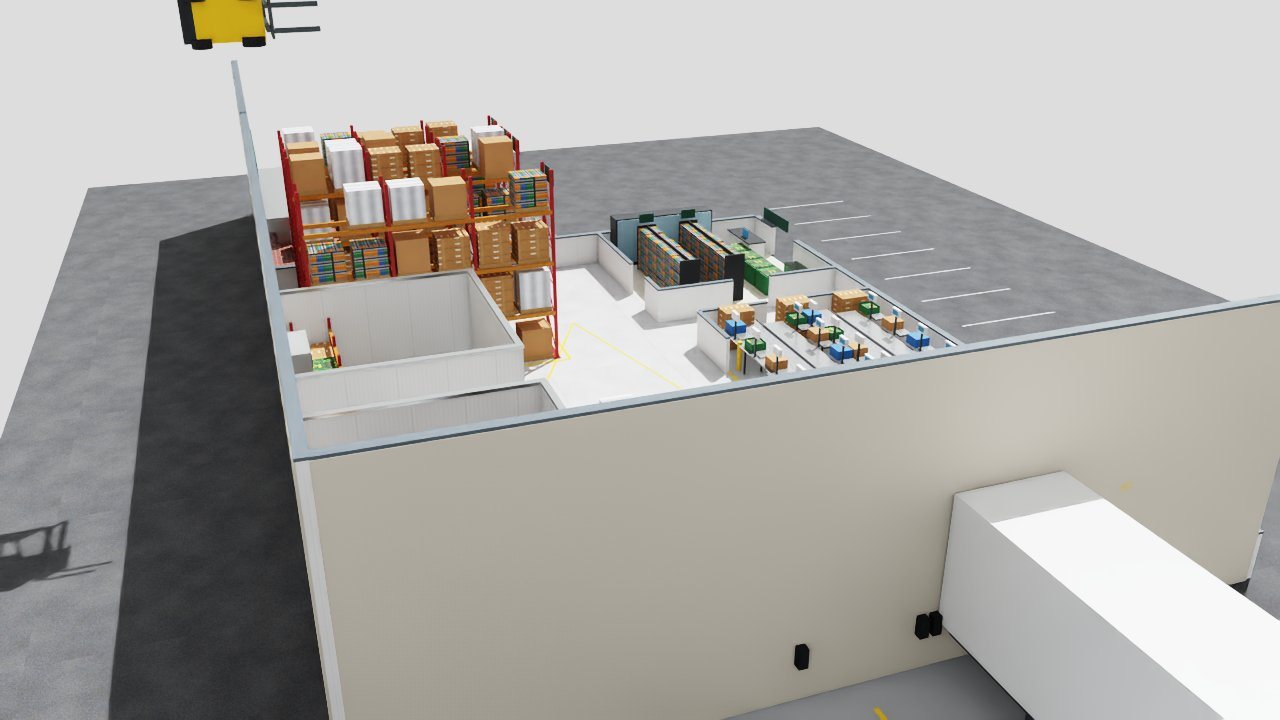
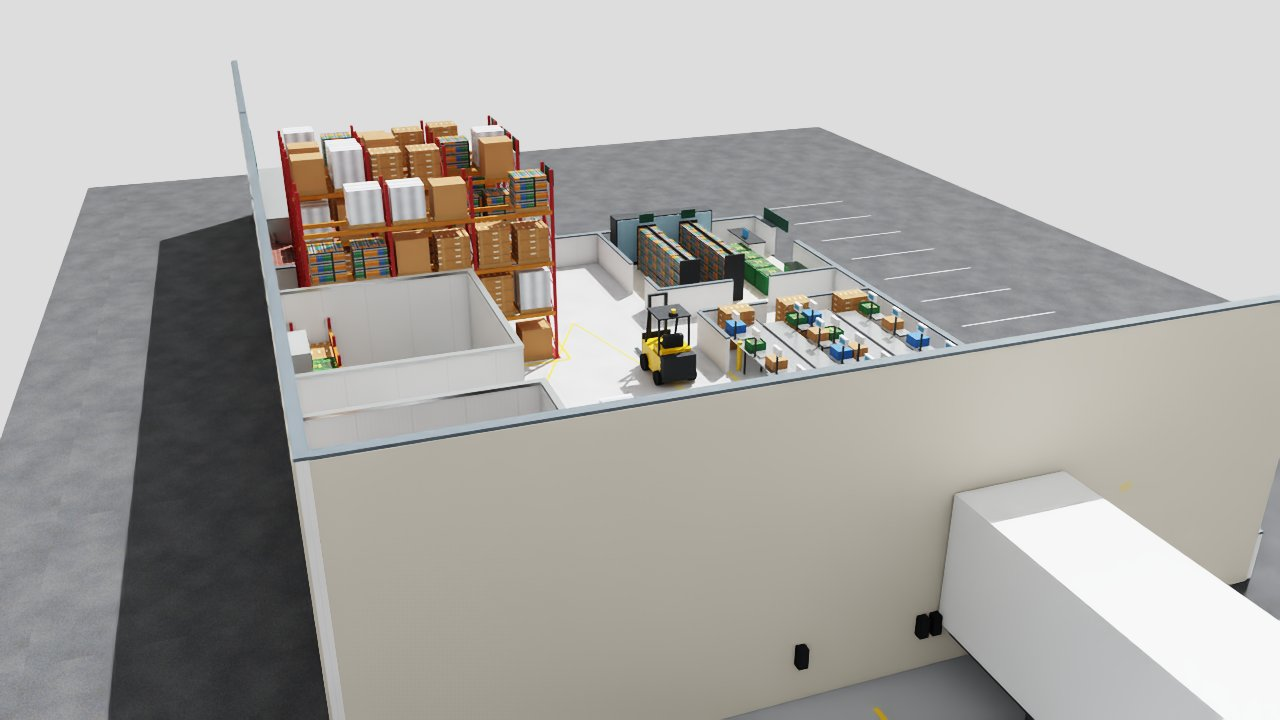
Record Omniverse run 7: forklift clips rendered on g5.xlarge
No us-east-2 zone had g6.xlarge capacity, so run 7 used g5.xlarge (A10G)
with the same setup and rendered all three clips with the forklift
transform fixed. Adds two run 7 frames to the wiki, the capacity
fallback and transform formula to the pitfalls, and moves GPU totals to
seven runs, about 94 instance-minutes, about $1.34 (build about $1.54).

Claude-Session: https://claude.ai/code/session_01WgLBft5thUa6djgUa4FqA3

Changed region(s): [[0.4688, 0.3972, 0.5938, 0.55], [0.125, 0.0, 0.25, 0.0611], [0.0, 0.7028, 0.0938, 0.825]]

diff --git a/public/wiki/omniverse.html b/public/wiki/omniverse.html
@@ -26,13 +26,15 @@
 <p>What happened when we tried to render the twin in NVIDIA Omniverse on a rented AWS GPU, run by run. It covers what failed, why it failed and what fixed it, so the next person can skip the dead ends. Scripts: <a href="https://github.com/pikulsomesh/foodbank-spatial-twin/blob/main/scripts/gpu_trial.py"><code>scripts/gpu_trial.py</code></a> (launch, render, upload, self-terminate), <a href="https://github.com/pikulsomesh/foodbank-spatial-twin/blob/main/scripts/omniverse_render_shots.py"><code>scripts/omniverse_render_shots.py</code></a> (stills) and <a href="https://github.com/pikulsomesh/foodbank-spatial-twin/blob/main/scripts/omniverse_render_clips.py"><code>scripts/omniverse_render_clips.py</code></a> (4 s moving clips). Full logs are in <a href="https://github.com/pikulsomesh/foodbank-spatial-twin/tree/main/docs/renders/omniverse-trial/"><code>docs/renders/omniverse-trial/</code></a>.</p>
 <div class="note warn"><p>Costs are worked out from the public on-demand list price ($0.8048 an hour for g6.xlarge in us-east-2) on one individual AWS account. They are directional; enterprise accounts may see different prices, quotas and policies.</p></div>
 <h2>Short version</h2>
-<p><strong>Result:</strong> Omniverse (Kit 107.3 in Isaac Sim 5.1) rendered the designed Blender facility in RTX on a g6.xlarge on run 6. The Gaussian-splat captures loaded but rendered blank grey, so Omniverse rendering of the splats is <strong>not</strong> shown. Total GPU time across six runs was about 72 instance-minutes, about $0.97 at list price.</p>
-<figure class="photo"><img src="img/omniverse_orbit.jpg" alt="Omniverse RTX frame of the designed facility, run 6" loading="lazy"><figcaption>First frame of the run 6 orbit: the designed facility rendered by Omniverse RTX (Isaac Sim 5.1) on an AWS g6.xlarge. The forklift floating at top left is the parent-transform bug described in pitfall 12, since fixed.</figcaption></figure>
+<p><strong>Result:</strong> Omniverse (Kit 107.3 in Isaac Sim 5.1) rendered the designed Blender facility in RTX on run 6, and on run 7 rendered three 4 s clips with the forklift driving through the building. The Gaussian-splat captures loaded but rendered blank grey, so Omniverse rendering of the splats is <strong>not</strong> shown. Total GPU time across seven runs was about 94 instance-minutes, about $1.34 at list price.</p>
+<div class="two"><figure class="photo"><img src="img/omniverse_orbit.jpg" alt="Omniverse RTX frame of the designed facility, run 7" loading="lazy"><figcaption>Omniverse RTX (Isaac Sim 5.1) on an AWS GPU, run 7: orbit of the designed facility with the forklift on the floor.</figcaption></figure>
+<figure class="photo"><img src="img/omniverse_forklift.jpg" alt="Omniverse RTX frame following the forklift, run 7" loading="lazy"><figcaption>Run 7: the camera follows the forklift through the racking aisle. Designed facility, simulated motion.</figcaption></figure></div>
 <ul>
 <li><strong>Use the driver branch Isaac Sim is validated on.</strong> Isaac Sim 5.1 (Kit 107.3) crashed a second after start on the AWS Deep Learning AMI's 595 driver, even with an empty scene. It started cleanly on plain Ubuntu 22.04 with <code>nvidia-driver-580-server</code> (580.178.04).</li>
 <li><strong>Test with a cube before your scene.</strong> A one-cube stage separates "the GPU stack is broken" from "my USD file is broken". It took four runs to learn that the twin files were never the problem.</li>
 <li><strong>Budget about 12 minutes before the first frame.</strong> On a cold instance that is about 1 min to boot, about 4.5 min to pull the Isaac Sim image, and about 5 min for Kit to build its shader cache on first start. Render everything in one session.</li>
 <li><strong>New AWS accounts have 0 GPU quota.</strong> Request "Running On-Demand G and VT instances" vCPUs early (4 is enough for one g6.xlarge). Ours was escalated, approved after about an hour, and took another 30 minutes or so to apply.</li>
+<li><strong>Have a fallback instance type.</strong> On run 7 no us-east-2 zone had g6.xlarge capacity; g5.xlarge (NVIDIA A10G, $1.006 an hour) ran the same setup unchanged.</li>
 <li><strong>Make the instance unable to outlive the job.</strong> No SSH key, no IAM role, inputs and outputs through presigned S3 URLs, <code>shutdown -h +N</code> as a hard cap, and shutdown behaviour set to terminate.</li>
 </ul>
 <h2>The setup</h2>
@@ -119,9 +121,16 @@
 <td>Forklift, facility orbit and aisle clips (4 s, 96 frames at 1280×720, 8 subframes)</td>
 <td><span class="tag live">Rendered</span> <strong>Frames rendered.</strong> The facility rendered in RTX: 16.7 s for one clip and 45.7 s for the wide orbit, and the second container start was warm. The splat file (<code>site.usdz</code>) loaded but rendered blank grey. The forklift floated above the building because its pose ignored the parent's Z-up to Y-up rotation (fixed in the script). Only the orbit clip is usable.</td>
 </tr>
+<tr>
+<td>7</td>
+<td>after 23:17, about 22 min</td>
+<td>same as run 6, on <strong>g5.xlarge</strong> (A10G) because no us-east-2 zone had g6.xlarge capacity</td>
+<td>Fixed forklift transform; forklift chase, facility orbit, aisle with forklift</td>
+<td><span class="tag live">Rendered</span> <strong>All three clips rendered.</strong> Warm render times for 96 frames at 8 subframes: forklift chase 18.6 s, facility orbit 47.7 s, aisle 49.4 s. The rest of the ~22 min was driver and Docker install and the image pull.</td>
+</tr>
 </tbody>
 </table></div>
-<p>Running total through run 6: about 72 instance-minutes, about <strong>$0.97</strong>. Every instance terminated itself, and no volumes were left behind.</p>
+<p>Running total through run 7: about 94 instance-minutes, about <strong>$1.34</strong>. Every instance terminated itself, and no volumes were left behind.</p>
 <h2>Pitfalls and fixes</h2>
 <ol>
 <li><strong>Driver too new for Kit.</strong> The Deep Learning AMI shipped driver 595 in October 2026. Kit 107.3 crashes in the RTX scene database on that driver before it opens any stage. Start from plain Ubuntu and install the 580 server branch, or pin an AMI whose driver matches the Isaac Sim release notes.</li>
@@ -133,12 +142,13 @@
 <li><strong>Test the GPU stack before the scene.</strong> Render a one-cube stage first. If the cube crashes, nothing about your USD will help.</li>
 <li><strong>GPU quota starts at 0.</strong> Open the quota request on day one. Approval can mean an escalated support case, and the new limit takes about 30 minutes to apply after approval.</li>
 <li><strong>Splats rendered blank in Kit 107.3.</strong> OpenUSD 26.03 defines <code>ParticleField3DGaussianSplat</code> and NVIDIA documents particle-field rendering, but Isaac Sim 5.1 loaded the twin's splat file and drew a blank grey frame. Use a Kit release whose notes list the particle-field schema, or show meshes in Omniverse and splats in the browser (Spark) or our CPU splat renderer. Blender's USD importer doesn't read them either.</li>
-<li><strong>Animate in the right frame.</strong> The facility comes from Blender, so <code>/World/Facility</code> carries a Z-up to Y-up rotation. A prim under it, like the forklift rig, needs its world pose mapped through the parent's transform, or it ends up floating above the building.</li>
+<li><strong>Animate in the right frame.</strong> The facility comes from Blender, so <code>/World/Facility</code> carries a Z-up to Y-up rotation. A prim under it, like the forklift rig, needs <code>local = rest × world × parent⁻¹</code>, or it ends up floating above the building or lying on its side.</li>
+<li><strong>GPU capacity runs out.</strong> A zone can have no g6.xlarge capacity even with quota. <code>scripts/gpu_trial.py</code> now tries every zone, then falls back to g5.xlarge.</li>
 <li><strong>Strip presigned URLs from logs before you publish them.</strong> They carry the access key id and work until they expire.</li>
 <li><strong>Fargate has no GPUs.</strong> For regular use, run the same container as an ECS service or AWS Batch job on a GPU Auto Scaling group with a minimum of 0, so an instance exists only while a render runs.</li>
 </ol>
-<h2>A recipe that renders the facility (as of run 6)</h2>
-<pre><code class="language-bash"># EC2 user data on Ubuntu 22.04, g6.xlarge
+<h2>A recipe that renders the facility (as of run 7)</h2>
+<pre><code class="language-bash"># EC2 user data on Ubuntu 22.04, g6.xlarge (or g5.xlarge as a fallback)
 apt-get update &amp;&amp; apt-get install -y linux-headers-$(uname -r) docker.io ffmpeg curl
 apt-get install -y nvidia-driver-580-server nvidia-utils-580-server
 modprobe nvidia &amp;&amp; nvidia-smi                      # expect Driver Version: 580.x
@@ -180,13 +190,18 @@ docker run --rm --gpus all -e ACCEPT_EULA=Y -e PRIVACY_CONSENT=Y \
 <td>about $0.20</td>
 </tr>
 <tr>
-<td><strong>Total, six runs</strong></td>
-<td><strong>about 72</strong></td>
-<td><strong>about $0.97</strong></td>
+<td>Run 7 (g5.xlarge)</td>
+<td>about 22</td>
+<td>about $0.37</td>
+</tr>
+<tr>
+<td><strong>Total, seven runs</strong></td>
+<td><strong>about 94</strong></td>
+<td><strong>about $1.34</strong></td>
 </tr>
 </tbody>
 </table></div>
-<p>Six attempts, including the first working render, cost under a dollar of GPU time. The slow part was the GPU quota request, not the spend.</p>
+<p>Seven attempts, through to working forklift clips, cost about $1.34 of GPU time. The slow part was the GPU quota request, not the spend.</p>
 <footer class="page">Representative food bank inspired by the Central Texas Food Bank; not affiliated with or endorsed by it. Costs are directional. Source: <a href="https://github.com/pikulsomesh/foodbank-spatial-twin">github.com/pikulsomesh/foodbank-spatial-twin</a>.</footer>
 </article>
 </div>

diff --git a/public/wiki/index.html b/public/wiki/index.html
@@ -33,13 +33,13 @@
   <div class="tile"><div class="label">Calendar time</div><div class="value">7 days</div><div class="meta">2026-10-19 to 2026-10-25</div></div>
   <div class="tile"><div class="label">World-model credits</div><div class="value">$0.20</div><div class="meta">confirmed; at most $1.00</div></div>
   <div class="tile"><div class="label">AWS backend bill</div><div class="value">$0.00</div><div class="meta">free tier, October 2026</div></div>
-  <div class="tile"><div class="label">Omniverse GPU trials</div><div class="value">$0.97</div><div class="meta">72 instance-minutes, list price</div></div>
+  <div class="tile"><div class="label">Omniverse GPU trials</div><div class="value">$1.34</div><div class="meta">94 instance-minutes, list price</div></div>
   <div class="tile"><div class="label">CAD models used</div><div class="value">0</div><div class="meta">footage that already existed</div></div>
 </div>
 <h2>Why it matters</h2>
 <p>A digital twin usually starts with CAD drawings or a laser survey, then weeks of modelling before any data is connected. Here the building comes from footage that already existed. World models fill in metric depth, a script fills in the facility, and OpenUSD lets the same scene run in a browser, in Omniverse and in Blender. The cloud spend to capture and model a whole facility is in the tens of dollars (see <a href="cost.html">Cost</a>), so the real work moves to connecting data, which is where a twin earns its keep.</p>
 <h2>What is real today</h2>
-<div class="table-wrap"><table><thead><tr><th>Part</th><th>Status</th><th>Details</th></tr></thead><tbody><tr><td>World-model captures (3 zones)</td><td><span class="tag live">Ran</span></td><td>World Labs Marble 2, 200 credits. <a href='pipeline.html'>Pipeline</a></td></tr><tr><td>Photoreal splats trained from the video (4 zones)</td><td><span class="tag live">Ran</span></td><td>Local 3D Gaussian Splatting, 0 credits. <a href='pipeline.html#photoreal'>Pipeline</a></td></tr><tr><td>Blender facility model</td><td><span class="tag live">Ran</span></td><td><code>scripts/build_facility.py</code> writes GLB and USDZ. <a href='pipeline.html#blender'>Pipeline</a></td></tr><tr><td>AWS backend (S3, API Gateway, Lambda)</td><td><span class="tag live">Live</span></td><td>Deployed in us-east-2. <a href='https://f2ck9o1rx0.execute-api.us-east-2.amazonaws.com/telemetry'>/telemetry</a>, <a href='data.html'>Data on AWS</a></td></tr><tr><td>Browser twin on GitHub Pages</td><td><span class="tag live">Live</span></td><td>Reads the AWS API. <a href='../'>Open it</a></td></tr><tr><td>Omniverse on an AWS GPU (EC2 g6.xlarge)</td><td><span class="tag live">Rendered</span></td><td>Six runs on a real g6.xlarge, about $0.97. Run 6 rendered the designed facility in RTX; the splats rendered blank. <a href='omniverse.html'>Learnings</a></td></tr><tr><td>Real sensors on a food bank floor</td><td><span class="tag design">Design only</span></td><td>Designed and priced, not installed. <a href='cost.html'>Cost</a></td></tr></tbody></table></div>
+<div class="table-wrap"><table><thead><tr><th>Part</th><th>Status</th><th>Details</th></tr></thead><tbody><tr><td>World-model captures (3 zones)</td><td><span class="tag live">Ran</span></td><td>World Labs Marble 2, 200 credits. <a href='pipeline.html'>Pipeline</a></td></tr><tr><td>Photoreal splats trained from the video (4 zones)</td><td><span class="tag live">Ran</span></td><td>Local 3D Gaussian Splatting, 0 credits. <a href='pipeline.html#photoreal'>Pipeline</a></td></tr><tr><td>Blender facility model</td><td><span class="tag live">Ran</span></td><td><code>scripts/build_facility.py</code> writes GLB and USDZ. <a href='pipeline.html#blender'>Pipeline</a></td></tr><tr><td>AWS backend (S3, API Gateway, Lambda)</td><td><span class="tag live">Live</span></td><td>Deployed in us-east-2. <a href='https://f2ck9o1rx0.execute-api.us-east-2.amazonaws.com/telemetry'>/telemetry</a>, <a href='data.html'>Data on AWS</a></td></tr><tr><td>Browser twin on GitHub Pages</td><td><span class="tag live">Live</span></td><td>Reads the AWS API. <a href='../'>Open it</a></td></tr><tr><td>Omniverse on an AWS GPU (EC2 g6.xlarge)</td><td><span class="tag live">Rendered</span></td><td>Seven runs on real AWS GPU instances, about $1.34. Runs 6 and 7 rendered the designed facility in RTX, with the forklift driving in run 7; the splats rendered blank. <a href='omniverse.html'>Learnings</a></td></tr><tr><td>Real sensors on a food bank floor</td><td><span class="tag design">Design only</span></td><td>Designed and priced, not installed. <a href='cost.html'>Cost</a></td></tr></tbody></table></div>
 <p>The data behind the twin is simulated, and every API payload says so with <code>simulated: true</code>. See <a href="provenance.html">Provenance</a> for what is captured, designed, published, estimated and simulated.</p>
 <div class="note"><p><strong>Representative, not a replica.</strong> The twin is a representative food bank inspired by the Central Texas Food Bank, built from a publicly available news tour by 25 News KXXV. Neither organisation was involved in this work or has endorsed it. Cost figures are directional: public list prices and one individual AWS account; enterprise discounts and quotas may differ.</p></div>
 <h2>Pages</h2>

diff --git a/public/wiki/visualize.html b/public/wiki/visualize.html
@@ -28,8 +28,8 @@
 <p><a href="../">The demo</a> runs on any laptop or phone with no install: three.js shows the Blender facility, badges are pinned to telemetry positions, the forklift follows its live path, and Spark renders the splat captures (<a href="../?captures">?captures</a>, or <a href="../photoreal.html">photoreal.html</a> to compare zones from their source cameras). It is published from <code>public/</code> by GitHub Actions and reads the AWS API through the repository variable <code>TWIN_API_URL</code>. URL options: <code>?view=cold|aisle|sorting|market|kitchen</code>, <code>?tour=1</code>, <code>?sim=1</code>. Reference: <a href="https://github.com/pikulsomesh/foodbank-spatial-twin/blob/main/docs/VIEWER.md"><code>docs/VIEWER.md</code></a>.</p>
 <h2 id="omniverse">NVIDIA Omniverse on an AWS GPU <span class="tag live">Rendered</span></h2>
 <p>Omniverse RTX renders USD particle fields natively and path-traces them. The trial runs one EC2 g6.xlarge (NVIDIA L4) in us-east-2 with Omniverse Kit headless from NVIDIA's Isaac Sim container, opens <code>twin.usda</code>, renders fixed cameras, saves the images and terminates itself. A new AWS account starts with 0 GPU vCPU quota; 4 vCPUs were granted on 2026-10-25. For regular use the same image runs as an ECS service or AWS Batch job on a GPU Auto Scaling group with a minimum of zero, so an instance exists only while someone is rendering. A Kit extension that polls <code>/telemetry</code> and <code>/operations</code> sets attributes on the USD prims by id.</p>
-<figure class="photo"><img src="img/omniverse_orbit.jpg" alt="The designed facility rendered by Omniverse RTX on an AWS g6.xlarge" loading="lazy"><figcaption>Omniverse RTX (Isaac Sim 5.1) on an AWS g6.xlarge, run 6: the designed facility. The floating forklift is a transform bug since fixed.</figcaption></figure>
-<div class="note warn"><p><strong>Facility rendered; splats not yet.</strong> Six runs on a real g6.xlarge in us-east-2 on 2026-10-25 took about 72 instance-minutes, about $0.97 at list price, and each instance terminated afterwards. Isaac Sim 5.1 crashed on the Deep Learning AMI's driver 595, started on plain Ubuntu with driver 580, and on run 6 rendered the facility in RTX (96 frames at 1280×720 in 17 to 46 s once warm). The Gaussian-splat captures loaded but rendered blank grey, so Omniverse rendering of splats is not shown. What failed, what fixed it and a working recipe: <a href="omniverse.html">Omniverse learnings and pitfalls</a>.</p></div>
+<div class="two"><figure class="photo"><img src="img/omniverse_orbit.jpg" alt="The designed facility rendered by Omniverse RTX on an AWS GPU" loading="lazy"><figcaption>Omniverse RTX (Isaac Sim 5.1) on an AWS GPU, run 7: orbit of the designed facility.</figcaption></figure><figure class="photo"><img src="img/omniverse_forklift.jpg" alt="Omniverse RTX frame following the forklift through the racking aisle" loading="lazy"><figcaption>Run 7: following the forklift. Designed facility, simulated motion.</figcaption></figure></div>
+<div class="note warn"><p><strong>Facility rendered; splats not yet.</strong> Seven runs on real AWS GPU instances in us-east-2 (g6.xlarge, and g5.xlarge for run 7) on 2026-10-25 took about 94 instance-minutes, about $1.34 at list price, and each instance terminated afterwards. Isaac Sim 5.1 crashed on the Deep Learning AMI's driver 595, started on plain Ubuntu with driver 580, and on runs 6 and 7 rendered the facility in RTX, including clips of the forklift driving (96 frames at 1280×720 in 17 to 49 s once warm). The Gaussian-splat captures loaded but rendered blank grey, so Omniverse rendering of splats is not shown. What failed, what fixed it and a working recipe: <a href="omniverse.html">Omniverse learnings and pitfalls</a>.</p></div>
 <h2 id="blender">Blender</h2>
 <p>Blender 5.2 opens the facility directly, and <a href="https://github.com/pikulsomesh/foodbank-spatial-twin/blob/main/scripts/blender_render_twin.py"><code>scripts/blender_render_twin.py</code></a> brings the splat captures in as point clouds (Blender's USD importer does not read <code>ParticleField3DGaussianSplat</code> yet). <a href="https://github.com/pikulsomesh/foodbank-spatial-twin/blob/main/scripts/render_usd_splats.py"><code>scripts/render_usd_splats.py</code></a> renders true Gaussian splats from the USD on a plain CPU. Both read the same camera list, so stills line up shot for shot.</p>
 <figure class="photo"><img src="img/splat_vs_blender.jpg" alt="The same shots from the splat renderer and from Blender" loading="lazy"><figcaption>Same cameras, two renderers: Gaussian splats (CPU) and Blender point clouds.</figcaption></figure>

diff --git a/public/wiki/cost.html b/public/wiki/cost.html
@@ -26,14 +26,14 @@
 <p class="lede">Building this twin cost about a dollar. Running it on a real floor costs a few thousand dollars of sensors and about $12 a month on AWS. Omniverse on a rented GPU is the one line that can grow, so it runs only on demand.</p>
 <div class="note warn"><p><strong>Directional, not a quote.</strong> Prices are public list prices checked on 2026-10-19 (us-east-1 on demand unless noted). What was tried was limited to what one individual AWS account could access, including its quotas and organisation policies. An enterprise account may see negotiated discounts, savings plans and different quotas, so treat every figure as directional. Taxes, shipping, installation and staff time are not included.</p></div>
 <div class="tiles">
-  <div class="tile"><div class="label">This build, so far</div><div class="value">~$1.17</div><div class="meta">credits + GPU trials; at most $1.97</div></div>
+  <div class="tile"><div class="label">This build, so far</div><div class="value">~$1.54</div><div class="meta">credits + GPU trials; at most $2.34</div></div>
   <div class="tile"><div class="label">Full facility, capture to twin</div><div class="value">$25 to $50</div><div class="meta">cloud spend, directional</div></div>
   <div class="tile"><div class="label">Real sensors, one-time</div><div class="value">~$2,700</div><div class="meta">LoRaWAN + BLE hardware</div></div>
   <div class="tile"><div class="label">AWS, monthly</div><div class="value">~$12</div><div class="meta">after the free tier</div></div>
 </div>
 
 <h2 id="measured">Measured: what this build cost</h2>
-<div class="table-wrap"><table><thead><tr><th>Step</th><th>What ran</th><th>Measured</th><th>Cost</th></tr></thead><tbody><tr><td>1. World model</td><td>Marble 2 <code>images2PosedRGBD</code>, 20 frames, 3 zones</td><td>200 credits</td><td><strong>$0.20</strong></td></tr><tr><td></td><td>Two failed <code>atlasGenerate</code> attempts</td><td>not shown on the usage page; worst case 800 credits</td><td>at most $0.80</td></tr><tr><td></td><td>Frames, RGBD fusion, COLMAP and 3DGS training (4 zones), USD conversion</td><td>local CPU</td><td>$0 extra</td></tr><tr><td>1b. Blender</td><td><code>build_facility.py</code>, whole building</td><td>about 5 s a build</td><td>$0</td></tr><tr><td>2. AWS</td><td>S3, HTTP API, Lambda in us-east-2, October 2026</td><td>Cost Explorer</td><td><strong>$0.00</strong> (free tier)</td></tr><tr><td>3. Omniverse</td><td>Six runs on EC2 g6.xlarge (NVIDIA L4), us-east-2, each terminated after. <span class="tag live">Rendered</span> run 6 drew the designed facility in RTX; splats rendered blank. <a href="omniverse.html">Learnings</a></td><td>about 72 instance-minutes (1.2 h); about 12 min cold start; 96 frames in 17 to 46 s warm</td><td><strong>about $0.97</strong> at $0.8048/h list (not yet in Cost Explorer)</td></tr><tr class="total"><td>Total so far</td><td></td><td></td><td>about $1.17; at most $1.97</td></tr></tbody></table></div>
+<div class="table-wrap"><table><thead><tr><th>Step</th><th>What ran</th><th>Measured</th><th>Cost</th></tr></thead><tbody><tr><td>1. World model</td><td>Marble 2 <code>images2PosedRGBD</code>, 20 frames, 3 zones</td><td>200 credits</td><td><strong>$0.20</strong></td></tr><tr><td></td><td>Two failed <code>atlasGenerate</code> attempts</td><td>not shown on the usage page; worst case 800 credits</td><td>at most $0.80</td></tr><tr><td></td><td>Frames, RGBD fusion, COLMAP and 3DGS training (4 zones), USD conversion</td><td>local CPU</td><td>$0 extra</td></tr><tr><td>1b. Blender</td><td><code>build_facility.py</code>, whole building</td><td>about 5 s a build</td><td>$0</td></tr><tr><td>2. AWS</td><td>S3, HTTP API, Lambda in us-east-2, October 2026</td><td>Cost Explorer</td><td><strong>$0.00</strong> (free tier)</td></tr><tr><td>3. Omniverse</td><td>Seven runs on EC2 g6.xlarge (NVIDIA L4), us-east-2, each terminated after. <span class="tag live">Rendered</span> runs 6 and 7 drew the designed facility in RTX; splats rendered blank. <a href="omniverse.html">Learnings</a></td><td>about 94 instance-minutes (1.6 h); about 12 min cold start; 96 frames in 17 to 49 s warm</td><td><strong>about $1.34</strong> at $0.8048/h list (not yet in Cost Explorer)</td></tr><tr class="total"><td>Total so far</td><td></td><td></td><td>about $1.54; at most $2.34</td></tr></tbody></table></div>
 <p>Calendar time: seven days, 2026-10-19 to 2026-10-25, from a publicly available news video, with no CAD drawings and no site visit.</p>
 
 <h2 id="scaled">Scaled to a full facility</h2>

diff --git a/public/wiki/architecture.html b/public/wiki/architecture.html
@@ -26,7 +26,7 @@
 <p class="lede">The AWS architecture below is the reference design, and its solid parts are deployed today. The same design maps onto Azure and Google Cloud.</p>
 <figure><img src="img/arch_aws.png" alt="Food bank digital twin on AWS: step 1 video to twin, step 2 connect data on AWS, step 3 visualize and act" loading="lazy"><figcaption><strong>AWS, deployed.</strong> Solid borders are in the repository today (AWS SAM template, simulated data) and running in us-east-2. Dashed borders are the real-floor path, designed and priced on the <a href="cost.html">Cost</a> page. Source: <a href="https://github.com/pikulsomesh/foodbank-spatial-twin/blob/main/paper/diagrams/arch_aws.drawio">arch_aws.drawio</a>.</figcaption></figure>
 <h2>Implemented versus designed</h2>
-<div class="table-wrap"><table><thead><tr><th>Component</th><th>Status</th></tr></thead><tbody><tr><td>Amazon S3 (twin assets, static site copy)</td><td><span class="tag live">Live</span></td></tr><tr><td>Amazon API Gateway HTTP API, throttled to 5 requests a second</td><td><span class="tag live">Live</span></td></tr><tr><td>AWS Lambda (Python 3.12, arm64): <code>/telemetry</code>, <code>/operations</code>, <code>/health</code></td><td><span class="tag live">Live</span></td></tr><tr><td>CloudWatch Logs, 7-day retention</td><td><span class="tag live">Live</span></td></tr><tr><td>Browser viewer on GitHub Pages</td><td><span class="tag live">Live</span></td></tr><tr><td>EC2 GPU (g6.xlarge) running Omniverse Kit, terminated after each session</td><td><span class="tag live">Rendered</span> (facility rendered on run 6; splats blank)</td></tr><tr><td>IoT Core for LoRaWAN, IoT Core MQTT, rules engine, ingest Lambda, DynamoDB, WMS import, SNS alerts</td><td><span class="tag design">Design only</span> (priced)</td></tr><tr><td>AWS Budgets alert ($10, set on the account, not in the template)</td><td><span class="tag live">Live</span></td></tr></tbody></table></div>
+<div class="table-wrap"><table><thead><tr><th>Component</th><th>Status</th></tr></thead><tbody><tr><td>Amazon S3 (twin assets, static site copy)</td><td><span class="tag live">Live</span></td></tr><tr><td>Amazon API Gateway HTTP API, throttled to 5 requests a second</td><td><span class="tag live">Live</span></td></tr><tr><td>AWS Lambda (Python 3.12, arm64): <code>/telemetry</code>, <code>/operations</code>, <code>/health</code></td><td><span class="tag live">Live</span></td></tr><tr><td>CloudWatch Logs, 7-day retention</td><td><span class="tag live">Live</span></td></tr><tr><td>Browser viewer on GitHub Pages</td><td><span class="tag live">Live</span></td></tr><tr><td>EC2 GPU (g6.xlarge) running Omniverse Kit, terminated after each session</td><td><span class="tag live">Rendered</span> (facility rendered on runs 6 and 7; splats blank)</td></tr><tr><td>IoT Core for LoRaWAN, IoT Core MQTT, rules engine, ingest Lambda, DynamoDB, WMS import, SNS alerts</td><td><span class="tag design">Design only</span> (priced)</td></tr><tr><td>AWS Budgets alert ($10, set on the account, not in the template)</td><td><span class="tag live">Live</span></td></tr></tbody></table></div>
 <h2>Cost controls</h2>
 <p>Every part bills only while it is used. Lambda and API Gateway bill per request, so an idle twin costs almost nothing. Container jobs (a warehouse import, a scene rebuild) can run on ECS with Fargate, billed per second and scaled to zero. Fargate has no GPUs, so Omniverse runs on EC2 GPU capacity with a minimum of zero instances: started for a session and terminated after.</p>
 <h2>Azure and Google Cloud</h2>

diff --git a/docs/OMNIVERSE_LEARNINGS.md b/docs/OMNIVERSE_LEARNINGS.md
@@ -6,14 +6,17 @@ Costs are worked out from the public on-demand list price ($0.8048 an hour for g
 
 ## Short version
 
-**Result:** Omniverse (Kit 107.3 in Isaac Sim 5.1) rendered the designed Blender facility in RTX on a g6.xlarge on run 6. The Gaussian-splat captures loaded but rendered blank grey, so Omniverse rendering of the splats is **not** shown. Total GPU time across six runs was about 72 instance-minutes, about $0.97 at list price.
+**Result:** Omniverse (Kit 107.3 in Isaac Sim 5.1) rendered the designed Blender facility in RTX on run 6, and on run 7 rendered three 4 s clips with the forklift driving through the building. The Gaussian-splat captures loaded but rendered blank grey, so Omniverse rendering of the splats is **not** shown. Total GPU time across seven runs was about 94 instance-minutes, about $1.34 at list price.
 
-![Omniverse RTX frame of the designed facility, run 6](../public/wiki/img/omniverse_orbit.jpg)
+![Omniverse RTX frame of the designed facility, run 7](../public/wiki/img/omniverse_orbit.jpg)
+
+![Omniverse RTX frame following the forklift, run 7](../public/wiki/img/omniverse_forklift.jpg)
 
 - **Use the driver branch Isaac Sim is validated on.** Isaac Sim 5.1 (Kit 107.3) crashed a second after start on the AWS Deep Learning AMI's 595 driver, even with an empty scene. It started cleanly on plain Ubuntu 22.04 with `nvidia-driver-580-server` (580.178.04).
 - **Test with a cube before your scene.** A one-cube stage separates "the GPU stack is broken" from "my USD file is broken". It took four runs to learn that the twin files were never the problem.
 - **Budget about 12 minutes before the first frame.** On a cold instance that is about 1 min to boot, about 4.5 min to pull the Isaac Sim image, and about 5 min for Kit to build its shader cache on first start. Render everything in one session.
 - **New AWS accounts have 0 GPU quota.** Request "Running On-Demand G and VT instances" vCPUs early (4 is enough for one g6.xlarge). Ours was escalated, approved after about an hour, and took another 30 minutes or so to apply.
+- **Have a fallback instance type.** On run 7 no us-east-2 zone had g6.xlarge capacity; g5.xlarge (NVIDIA A10G, $1.006 an hour) ran the same setup unchanged.
 - **Make the instance unable to outlive the job.** No SSH key, no IAM role, inputs and outputs through presigned S3 URLs, `shutdown -h +N` as a hard cap, and shutdown behaviour set to terminate.
 
 ## The setup
@@ -35,8 +38,9 @@ Costs are worked out from the public on-demand list price ($0.8048 an hour for g
 | 4 | 22:19 to 22:29 | same, plus NVIDIA's 580.65.06 runfile | A bare lit cube with the default renderer; swap the driver in place | The cube crashed the same way, so the twin files were not the cause. The runfile unpacked, but the AMI's 595 module stayed loaded. |
 | 5 | 22:34 to ~22:57 | Plain Ubuntu 22.04; user data installs `nvidia-driver-580-server` (580.178.04), Docker and the NVIDIA container toolkit | Cube test, then clips | **Kit started and did not crash.** First start took about 5 min (shader cache). The render script then failed writing its output folder (permission denied on the mounted `/work/out`), and later container starts failed with `nvml error: driver/library version mismatch`. |
 | 6 | 23:02 to ~23:17 | same as run 5, with write permissions fixed and Kit caches mounted from the host | Forklift, facility orbit and aisle clips (4 s, 96 frames at 1280×720, 8 subframes) | **Frames rendered.** The facility rendered in RTX: 16.7 s for one clip and 45.7 s for the wide orbit, and the second container start was warm. The splat file (`site.usdz`) loaded but rendered blank grey. The forklift floated above the building because its pose ignored the parent's Z-up to Y-up rotation (fixed in the script). Only the orbit clip is usable. |
+| 7 | after 23:17, about 22 min | same as run 6, on **g5.xlarge** (A10G) because no us-east-2 zone had g6.xlarge capacity | Fixed forklift transform; forklift chase, facility orbit, aisle with forklift | **All three clips rendered.** Warm render times for 96 frames at 8 subframes: forklift chase 18.6 s, facility orbit 47.7 s, aisle 49.4 s. The rest of the ~22 min was driver and Docker install and the image pull. |
 
-Running total through run 6: about 72 instance-minutes, about **$0.97**. Every instance terminated itself, and no volumes were left behind.
+Running total through run 7: about 94 instance-minutes, about **$1.34**. Every instance terminated itself, and no volumes were left behind.
 
 ## Pitfalls and fixes
 
@@ -49,14 +53,15 @@ Running total through run 6: about 72 instance-minutes, about **$0.97**. Every i
 7. **Test the GPU stack before the scene.** Render a one-cube stage first. If the cube crashes, nothing about your USD will help.
 8. **GPU quota starts at 0.** Open the quota request on day one. Approval can mean an escalated support case, and the new limit takes about 30 minutes to apply after approval.
 9. **Splats rendered blank in Kit 107.3.** OpenUSD 26.03 defines `ParticleField3DGaussianSplat` and NVIDIA documents particle-field rendering, but Isaac Sim 5.1 loaded the twin's splat file and drew a blank grey frame. Use a Kit release whose notes list the particle-field schema, or show meshes in Omniverse and splats in the browser (Spark) or our CPU splat renderer. Blender's USD importer doesn't read them either.
-12. **Animate in the right frame.** The facility comes from Blender, so `/World/Facility` carries a Z-up to Y-up rotation. A prim under it, like the forklift rig, needs its world pose mapped through the parent's transform, or it ends up floating above the building.
+12. **Animate in the right frame.** The facility comes from Blender, so `/World/Facility` carries a Z-up to Y-up rotation. A prim under it, like the forklift rig, needs `local = rest × world × parent⁻¹`, or it ends up floating above the building or lying on its side.
+13. **GPU capacity runs out.** A zone can have no g6.xlarge capacity even with quota. `scripts/gpu_trial.py` now tries every zone, then falls back to g5.xlarge.
 10. **Strip presigned URLs from logs before you publish them.** They carry the access key id and work until they expire.
 11. **Fargate has no GPUs.** For regular use, run the same container as an ECS service or AWS Batch job on a GPU Auto Scaling group with a minimum of 0, so an instance exists only while a render runs.
 
-## A recipe that renders the facility (as of run 6)
+## A recipe that renders the facility (as of run 7)
 
 ```bash
-# EC2 user data on Ubuntu 22.04, g6.xlarge
+# EC2 user data on Ubuntu 22.04, g6.xlarge (or g5.xlarge as a fallback)
 apt-get update && apt-get install -y linux-headers-$(uname -r) docker.io ffmpeg curl
 apt-get install -y nvidia-driver-580-server nvidia-utils-580-server
 modprobe nvidia && nvidia-smi                      # expect Driver Version: 580.x
@@ -76,6 +81,7 @@ docker run --rm --gpus all -e ACCEPT_EULA=Y -e PRIVACY_CONSENT=Y \
 | Run 4 | about 10 | about $0.12 |
 | Run 5 | about 21 | about $0.29 |
 | Run 6 | about 15 | about $0.20 |
-| **Total, six runs** | **about 72** | **about $0.97** |
+| Run 7 (g5.xlarge) | about 22 | about $0.37 |
+| **Total, seven runs** | **about 94** | **about $1.34** |
 
-Six attempts, including the first working render, cost under a dollar of GPU time. The slow part was the GPU quota request, not the spend.
+Seven attempts, through to working forklift clips, cost about $1.34 of GPU time. The slow part was the GPU quota request, not the spend.

diff --git a/README.md b/README.md
@@ -6,7 +6,7 @@ This repository builds a working digital twin of a food bank from a publicly ava
 2. **Blender for the 3D facility.** A headless Blender script models the whole building, the parts the video never showed included, from the facility's own footprints. No CAD drawings, laser scans or site visits are used.
 3. **Omniverse and the browser as the digital twin.** AWS serves live (today simulated) telemetry and operations data in the same metric frame, and the twin is viewed in a browser on GitHub Pages, in NVIDIA Omniverse on a rented GPU, or in Blender. OpenUSD is the open contract between all three steps.
 
-It was built in seven days (2026-10-19 to 2026-10-25) for **$0.20 of confirmed world-model credits**, **$0.00 of AWS backend charges** and **about $0.97 of GPU time** for the Omniverse trials. The point is that existing tools are now good enough to stand up a useful twin from footage that already exists, much faster and cheaper than a CAD-first project.
+It was built in seven days (2026-10-19 to 2026-10-25) for **$0.20 of confirmed world-model credits**, **$0.00 of AWS backend charges** and **about $1.34 of GPU time** for the Omniverse trials. The point is that existing tools are now good enough to stand up a useful twin from footage that already exists, much faster and cheaper than a CAD-first project.
 
 **Live demo:** <https://pikulsomesh.github.io/foodbank-spatial-twin/> · **Docs wiki:** <https://pikulsomesh.github.io/foodbank-spatial-twin/wiki/> · **Cost page:** <https://pikulsomesh.github.io/foodbank-spatial-twin/wiki/cost.html>
 
@@ -21,7 +21,7 @@ It was built in seven days (2026-10-19 to 2026-10-25) for **$0.20 of confirmed w
 | Blender facility model | **Built** by `scripts/build_facility.py`, published as GLB and USDZ | [docs/VIEWER.md](docs/VIEWER.md) |
 | AWS backend | **Deployed** in us-east-2: S3, API Gateway HTTP API, Lambda (AWS SAM) | [docs/BACKEND.md](docs/BACKEND.md) |
 | Browser twin | **Live** on GitHub Pages, reading the AWS API | [live site](https://pikulsomesh.github.io/foodbank-spatial-twin/) |
-| Omniverse on an AWS GPU (EC2 g6.xlarge) | **Rendered (facility only)**: six runs on a real g6.xlarge (about 72 instance-minutes, about $0.97, each terminated after). Omniverse RTX rendered the designed facility on run 6; the Gaussian-splat captures loaded but rendered blank, so Omniverse rendering of the splats is not shown. Every pitfall is in [docs/OMNIVERSE_LEARNINGS.md](docs/OMNIVERSE_LEARNINGS.md) | [docs/RENDERING.md](docs/RENDERING.md) |
+| Omniverse on an AWS GPU (EC2 g6.xlarge / g5.xlarge) | **Rendered (facility only)**: seven runs on real AWS GPU instances (about 94 instance-minutes, about $1.34, each terminated after). Omniverse RTX rendered the designed facility on runs 6 and 7, including 4 s clips of the forklift driving; the Gaussian-splat captures loaded but rendered blank, so Omniverse rendering of the splats is not shown. Every pitfall is in [docs/OMNIVERSE_LEARNINGS.md](docs/OMNIVERSE_LEARNINGS.md) | [docs/RENDERING.md](docs/RENDERING.md) |
 | Real sensors on a food bank floor | **Designed and priced**, not installed (dashed in the diagram) | [docs/COST_ESTIMATE.md](docs/COST_ESTIMATE.md) |
 
 Live API: <https://f2ck9o1rx0.execute-api.us-east-2.amazonaws.com/telemetry> and [`/operations`](https://f2ck9o1rx0.execute-api.us-east-2.amazonaws.com/operations). Its data is simulated, and every payload says so (`simulated: true`).
@@ -109,7 +109,7 @@ scripts/deploy.sh
 
 | | Cost |
 |---|---|
-| This build (world model, local training, Blender, AWS, GPU trials) | **about $1.17** ($0.20 credits confirmed, $0.97 GPU at list price); at most $1.97 |
+| This build (world model, local training, Blender, AWS, GPU trials) | **about $1.54** ($0.20 credits confirmed, $1.34 GPU at list price); at most $2.34 |
 | Capture to deployed twin for a full ~135,000 sq ft facility | about **$25 to $50** of cloud spend (directional) |
 | Running it on real sensors | about **$2,700** hardware once, about **$12 a month** on AWS |
 | Omniverse on demand, 10 hours a week | about **$124 a month** (Marketplace g6e.xlarge) |

diff --git a/docs/COST_ESTIMATE.md b/docs/COST_ESTIMATE.md
@@ -28,8 +28,8 @@ The whole twin was built from one publicly available news video in seven days (2
 | | Frame extraction, RGBD fusion, COLMAP and 3D Gaussian Splatting training for 4 zones, OpenUSD conversion | local CPU in a cloud container | $0 extra |
 | 1b. Blender facility model | `scripts/build_facility.py` (headless `bpy`), whole building from the designed footprints | about 5 s per build | $0 |
 | 2. Data on AWS | SAM stack (S3, HTTP API, Lambda) in us-east-2, October 2026 | Cost Explorer | **$0.00** (free tier) |
-| 3. Omniverse on a rented GPU | Six runs on one g6.xlarge (NVIDIA L4) at a time, us-east-2, 2026-10-25 21:32 to ~23:17 UTC, each terminated after. Runs 1 to 4 crashed on the Deep Learning AMI's driver 595; run 5 started Kit on plain Ubuntu with driver 580; **run 6 rendered the designed facility in RTX**. The splat captures loaded but rendered blank, so Omniverse rendering of splats is not shown. See [OMNIVERSE_LEARNINGS.md](OMNIVERSE_LEARNINGS.md) | about 72 instance-minutes (1.2 h); cold start about 12 min on a fresh instance; 96 frames at 1280×720 in 17 to 46 s once warm | **about $0.97** at $0.8048/h list plus about a cent of gp3 disk; from list price, not yet posted in Cost Explorer |
-| **Total so far** | | | **about $1.17** ($0.20 credits confirmed, $0.97 GPU from list price); at most $1.97 if the failed world-model runs were billed |
+| 3. Omniverse on a rented GPU | Seven runs on one g6.xlarge (NVIDIA L4) at a time, us-east-2, 2026-10-25 from 21:32 UTC, each terminated after. Runs 1 to 4 crashed on the Deep Learning AMI's driver 595; run 5 started Kit on plain Ubuntu with driver 580; **runs 6 and 7 rendered the designed facility in RTX**. The splat captures loaded but rendered blank, so Omniverse rendering of splats is not shown. See [OMNIVERSE_LEARNINGS.md](OMNIVERSE_LEARNINGS.md) | about 94 instance-minutes (1.6 h); cold start about 12 min on a fresh instance; 96 frames at 1280×720 in 17 to 49 s once warm | **about $1.34** at $0.8048/h list plus about a cent of gp3 disk; from list price, not yet posted in Cost Explorer |
+| **Total so far** | | | **about $1.54** ($0.20 credits confirmed, $1.34 GPU from list price); at most $2.34 if the failed world-model runs were billed |
 
 ## Scaled to a full facility (directional)
 

diff --git a/docs/BACKEND.md b/docs/BACKEND.md
@@ -35,4 +35,4 @@ Measured on 2026-10-25: AWS Cost Explorer showed $0.00 billed for October 2026 (
 
 ## Omniverse on a GPU (EC2)
 
-Fargate has no GPUs, so Omniverse runs on EC2 GPU capacity that exists only while a render runs: an ECS service or AWS Batch job on a GPU Auto Scaling group with a minimum of 0, or a single instance launched for a session that terminates itself afterwards. The trial uses one g6.xlarge (NVIDIA L4) in us-east-2 running Omniverse Kit headless from NVIDIA's Isaac Sim container, opening `twin.usda`, rendering fixed cameras and then terminating. New accounts start with 0 GPU vCPU quota; this account was granted 4 on 2026-10-25. The trial ran six times on 2026-10-25 (about 72 instance-minutes, about $0.97 at list price, each instance terminated afterwards). Isaac Sim 5.1 crashed on start with the Deep Learning AMI's driver 595, started on plain Ubuntu with driver 580, and on run 6 rendered the designed facility in RTX; the splat captures rendered blank. Every step and pitfall: [OMNIVERSE_LEARNINGS.md](OMNIVERSE_LEARNINGS.md).
+Fargate has no GPUs, so Omniverse runs on EC2 GPU capacity that exists only while a render runs: an ECS service or AWS Batch job on a GPU Auto Scaling group with a minimum of 0, or a single instance launched for a session that terminates itself afterwards. The trial uses one g6.xlarge (NVIDIA L4) in us-east-2 running Omniverse Kit headless from NVIDIA's Isaac Sim container, opening `twin.usda`, rendering fixed cameras and then terminating. New accounts start with 0 GPU vCPU quota; this account was granted 4 on 2026-10-25. The trial ran seven times on 2026-10-25 (about 94 instance-minutes, about $1.34 at list price, each instance terminated afterwards). Isaac Sim 5.1 crashed on start with the Deep Learning AMI's driver 595, started on plain Ubuntu with driver 580, and on runs 6 and 7 rendered the designed facility in RTX; the splat captures rendered blank. Every step and pitfall: [OMNIVERSE_LEARNINGS.md](OMNIVERSE_LEARNINGS.md).
